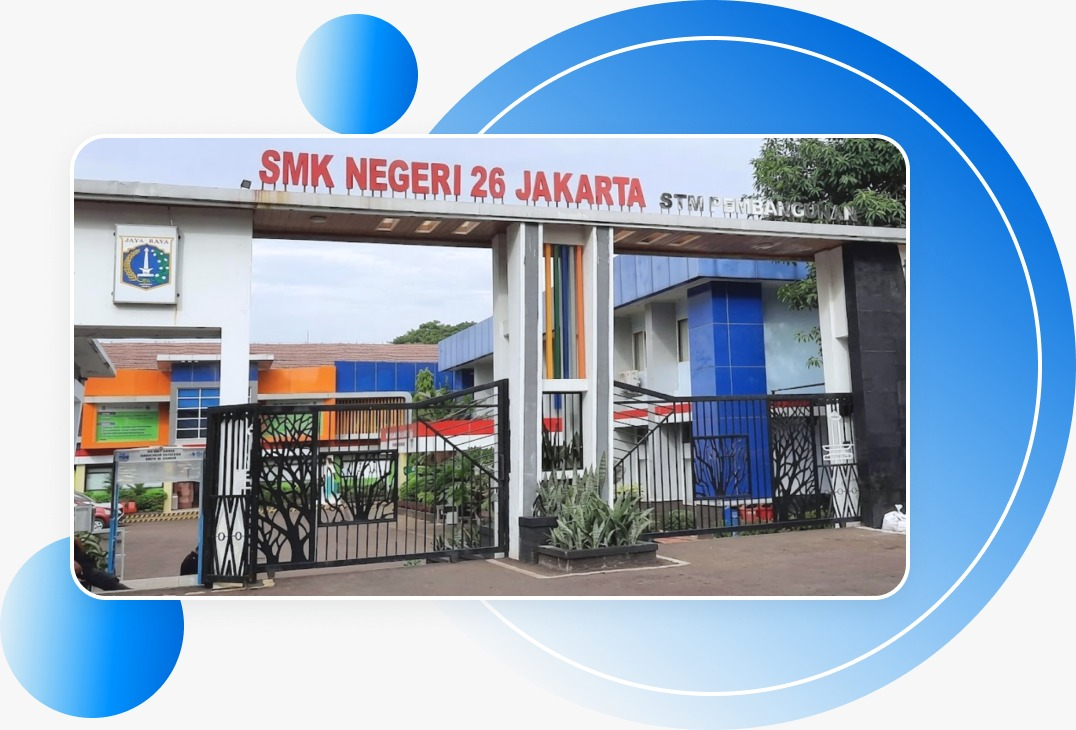
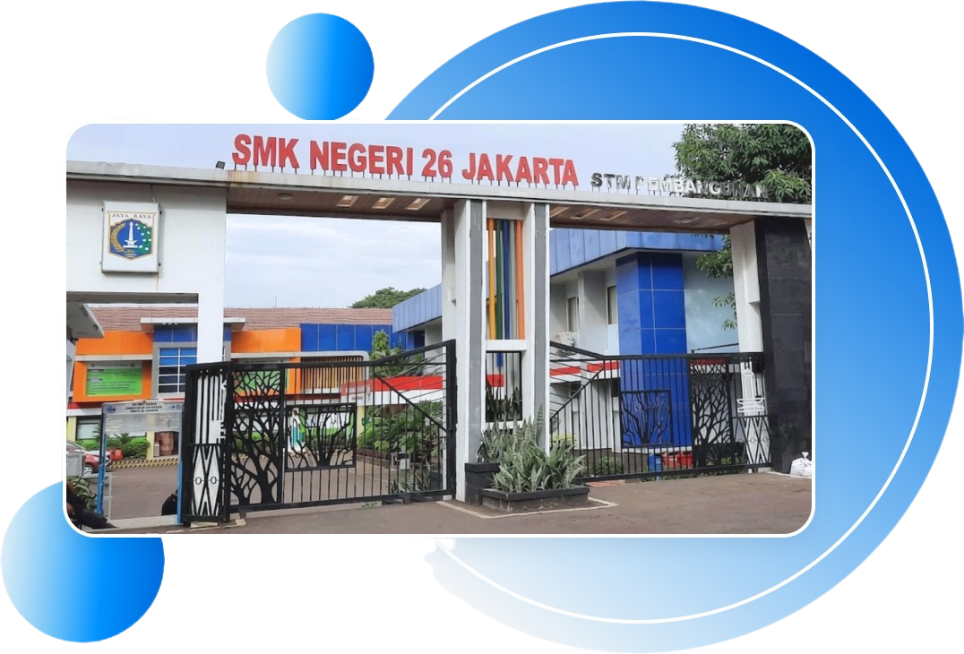
Implement partner industry page and refine profile layout

diff --git a/frontend/src/components/public/PartnerLogos.tsx b/frontend/src/components/public/PartnerLogos.tsx
@@ -1,55 +1,128 @@
-import { useEffect, useRef } from "react";
+type Partner = {
+  key: string;
+  name: string;
+  src: string;
+};
 
-const partners = [
-  { key: "partner-logo-09", name: "Partner logo 09", src: "/assets/figma/partners/partner-logo-09.png" },
-  { key: "partner-logo-07", name: "Partner logo 07", src: "/assets/figma/partners/partner-logo-07.jpeg" },
-  { key: "partner-logo-05", name: "Partner logo 05", src: "/assets/figma/partners/partner-logo-05.png" },
-  { key: "partner-logo-04", name: "Partner logo 04", src: "/assets/figma/partners/partner-logo-04.png" },
-  { key: "partner-logo-16", name: "Partner logo 16", src: "/assets/figma/partners/partner-logo-16.png" },
-  { key: "partner-logo-12", name: "Partner logo 12", src: "/assets/figma/partners/partner-logo-12.png" },
-  { key: "partner-logo-10", name: "Partner logo 10", src: "/assets/figma/partners/partner-logo-10.png" },
-  { key: "partner-pln", name: "PLN", src: "/assets/figma/partners/partner-pln.png" },
-  { key: "partner-panasonic", name: "Panasonic", src: "/assets/figma/partners/partner-panasonic.png" },
-  { key: "partner-wika", name: "WIKA", src: "/assets/figma/partners/partner-wika.png" },
-] as const;
+const partners: Partner[] = [
+  { key: "astra", name: "Astra", src: "/assets/figma/mitra-industri/astra.png" },
+  { key: "azko", name: "AZKO", src: "/assets/figma/mitra-industri/azko.png" },
+  { key: "komatsu", name: "Komatsu", src: "/assets/figma/mitra-industri/komatsu.png" },
+  { key: "microvision", name: "Microvision", src: "/assets/figma/mitra-industri/microvision.png" },
+  { key: "panasonic", name: "Panasonic", src: "/assets/figma/mitra-industri/panasonic.png" },
+  { key: "pln", name: "PLN", src: "/assets/figma/mitra-industri/pln.png" },
+  { key: "toyota", name: "Toyota", src: "/assets/figma/mitra-industri/toyota.png" },
+  { key: "wika", name: "WIKA", src: "/assets/figma/mitra-industri/wika.png" },
+];
 
-export function PartnerLogos() {
-  const trackRef = useRef<HTMLDivElement>(null);
-  useEffect(() => {
-    const track = trackRef.current;
-    if (!track) return;
-    // Replaces the previous @keyframes partner-marquee (10s linear infinite,
-    // translateX(0) -> translateX(-50%)). Two identical sets are rendered, so
-    // -50% is exactly one set width and the loop is seamless.
-    const animation = track.animate(
-      [{ transform: "translateX(0)" }, { transform: "translateX(-50%)" }],
-      { duration: 10000, iterations: Infinity, easing: "linear" },
-    );
-    return () => animation.cancel();
-  }, []);
-
-  const renderPartnerSet = (hidden = false) => (
-    <div className="flex shrink-0 gap-[23.551px] pr-[23.551px]" aria-hidden={hidden}>
-      {partners.map((partner) => (
-        <div className="grid h-[117.737px] w-[235.475px] shrink-0 place-items-center rounded-[24px] border-2 border-school-bg bg-white" data-partner-key={partner.key} key={`${hidden ? "duplicate-" : ""}${partner.key}`}>
-          <img className="max-h-[70px] max-w-[190px] object-contain" src={partner.src} alt={`${partner.name} logo`} draggable={false} />
-        </div>
-      ))}
+function PartnerCard({ partner }: { partner: Partner }) {
+  return (
+    <div className="grid h-[117.737px] w-[235.475px] shrink-0 place-items-center rounded-[24px] border-2 border-[#EAF5FA] bg-white p-5 shadow-[0_4px_16px_rgba(15,23,42,.08)]">
+      <img
+        className="max-h-[70px] max-w-[190px] object-contain"
+        src={partner.src}
+        alt={`${partner.name} logo`}
+        draggable={false}
+      />
     </div>
   );
+}
+
+function PartnerCards({ compact = false }: { compact?: boolean }) {
   return (
-    <section className="partners-section mt-[88px] h-[218px] overflow-hidden bg-[#F4F8FF]">
-      <div className="mx-auto w-[calc(100%-32px)] max-w-[1272px]">
-<h2 className="text-center text-4xl font-bold text-ink">
-           <span className="text-primary-dark">100+ Mitra Industri</span> yang Berkolaborasi Bersama
+    <div className={compact ? "flex gap-6 overflow-x-auto pb-2" : "grid grid-cols-2 gap-4 sm:grid-cols-3 lg:grid-cols-4"}>
+      {partners.map((partner) => <PartnerCard partner={partner} key={partner.key} />)}
+    </div>
+  );
+}
+
+const partnerDetails = [
+  ["AZKO", "azko"],
+  ["PLN", "pln"],
+  ["Toyota", "toyota"],
+  ["WIKA", "wika"],
+  ["Panasonic", "panasonic"],
+  ["Komatsu", "komatsu"],
+  ["Microvision", "microvision"],
+  ["Astra Otoparts", "astra"],
+] as const;
+
+function DetailPartnerCard({ name, keyName, index }: { name: string; keyName: string; index: number }) {
+  const partner = partners.find((item) => item.key === keyName);
+  if (!partner) return null;
+  return (
+    <article className="flex min-h-[300px] flex-col rounded-[24px] border-2 border-[#EAF5FA] bg-white p-6 shadow-[0_4px_16px_rgba(15,23,42,.08)]">
+      <div className="grid h-[92px] place-items-center">
+        <img className="max-h-[70px] max-w-[190px] object-contain" src={partner.src} alt={`${name} logo`} draggable={false} />
+      </div>
+      <h3 className="mt-5 text-lg font-bold text-ink">{String(index + 1).padStart(2, "0")} — {name}</h3>
+      <div className="mt-auto pt-6 text-xs font-semibold text-primary">Logo mitra industri</div>
+    </article>
+  );
+}
+
+export function PartnerLogos() {
+  return (
+    <section
+      id="partners"
+      className="mt-[88px] overflow-hidden bg-[#F4F8FF] py-8"
+      aria-labelledby="homepage-partners-title"
+    >
+      <div className="mx-auto w-full max-w-[1272px] px-4 sm:px-6 lg:px-0">
+        <h2 id="homepage-partners-title" className="text-center text-3xl font-bold leading-[54px] text-ink sm:text-4xl">
+          <span className="text-primary-dark">100+ Mitra Industri</span> yang Berkolaborasi Bersama
         </h2>
-        <div className="mt-[42px] h-[140px] w-full overflow-hidden">
-          <div ref={trackRef} className="flex w-max">
-            {renderPartnerSet()}
-            {renderPartnerSet(true)}
-          </div>
+        <div className="mt-8">
+          <PartnerCards compact />
         </div>
       </div>
     </section>
+  );
+}
+
+export function PartnerIndustryPage() {
+  return (
+    <main className="min-h-screen overflow-hidden bg-white pb-24 text-ink">
+      <section className="relative isolate overflow-visible bg-[#EAF5FA]" aria-labelledby="partners-page-title">
+        <img className="absolute inset-0 -z-10 size-full object-cover object-center" src="/assets/figma/mitra-industri/hero.png" alt="" aria-hidden="true" />
+        <div className="absolute inset-0 -z-[5] bg-[linear-gradient(180deg,rgba(234,245,250,.9)_0%,rgba(234,245,250,.12)_42%,rgba(0,108,220,.16)_100%)]" aria-hidden="true" />
+        <div className="mx-auto flex min-h-[700px] w-full max-w-[1272px] flex-col items-center px-4 pb-0 pt-[150px] text-center sm:px-6 lg:min-h-[720px] lg:px-0">
+          <span className="inline-flex rounded-full bg-white/90 px-3 py-1.5 text-xs font-semibold text-primary shadow-[0_4px_16px_rgba(15,23,42,.08)]">MITRA INDUSTRI</span>
+          <h1 id="partners-page-title" className="mt-4 max-w-[850px] text-4xl font-extrabold leading-[1.15] text-white drop-shadow-[0_3px_6px_rgba(15,23,42,.2)] sm:text-5xl lg:text-[52px]">
+            Membangun Koneksi, <span className="text-primary">Membuka Peluang</span>
+          </h1>
+          <p className="mt-4 max-w-[760px] text-sm leading-6 text-white drop-shadow-[0_2px_4px_rgba(15,23,42,.25)] sm:text-base sm:leading-7">
+            Mengenal berbagai mitra industri yang berkolaborasi bersama SMKN 26 Jakarta dalam mendukung pembelajaran dan kesiapan siswa menuju dunia kerja.
+          </p>
+          <a className="mt-5 rounded-full border border-white/50 bg-primary px-6 py-2.5 text-sm font-semibold text-white shadow-[0_4px_16px_rgba(15,23,42,.12)] transition hover:bg-primary-dark focus-visible:outline-2 focus-visible:outline-white" href="#partners-list-title">Jelajahi Mitra <span aria-hidden="true">→</span></a>
+          <div className="absolute bottom-[-45px] left-1/2 z-20 grid w-[min(1080px,100%)] -translate-x-1/2 grid-cols-2 overflow-hidden rounded-[12px] bg-gradient-to-r from-primary-dark via-primary to-soft-blue text-white shadow-[0_8px_24px_rgba(15,23,42,.16)] sm:grid-cols-4 max-sm:bottom-[-62px]">
+            {[["50+", "Mitra Industri"], ["6", "Kompetensi Keahlian"], ["6", "Bidang Kolaborasi"], ["24", "Program & Kegiatan"]].map(([value, label]) => (
+              <div className="border-b border-r border-dashed border-white/70 px-3 py-4 last:border-r-0 sm:py-3" key={label}>
+                <strong className="block text-2xl font-bold sm:text-3xl">{value}</strong>
+                <span className="text-[11px] sm:text-xs">{label}</span>
+              </div>
+            ))}
+          </div>
+        </div>
+      </section>
+
+      <div className="mx-auto w-full max-w-[1272px] px-4 sm:px-6 lg:px-0">
+        <section className="grid items-center gap-10 pt-[125px] pb-16 sm:pt-[145px] sm:pb-20 lg:grid-cols-[minmax(0,1.05fr)_minmax(0,.95fr)]" aria-labelledby="partners-intro-title">
+          <img className="order-2 h-auto max-h-[360px] w-full object-contain lg:order-1" src="/assets/figma/mitra-industri/sectionbawahhero.png" alt="Siswa SMKN 26 melakukan praktik teknis" />
+          <div className="order-1 lg:order-2">
+            <h2 id="partners-intro-title" className="text-3xl font-bold leading-[1.25] sm:text-4xl sm:leading-[1.35]">Mitra Industri<br /><span className="text-primary">SMK Negeri 26 Jakarta</span></h2>
+            <p className="mt-5 text-base leading-7 text-muted sm:text-lg sm:leading-8">Membangun kolaborasi antara SMKN 26 Jakarta dan dunia industri untuk menghadirkan pembelajaran yang relevan, praktik nyata, serta kesiapan kerja bagi siswa.</p>
+            <a className="mt-5 inline-flex rounded-full bg-primary px-5 py-2.5 text-xs font-semibold text-white hover:bg-primary-dark focus-visible:outline-2 focus-visible:outline-primary" href="#partners-list-title">Jelajahi Mitra <span className="ml-2" aria-hidden="true">→</span></a>
+          </div>
+        </section>
+
+        <section className="rounded-t-[32px] bg-[#F4F8FF] px-4 py-14 sm:px-8 sm:py-16" aria-labelledby="partners-list-title">
+          <h2 id="partners-list-title" className="mx-auto max-w-[820px] text-center text-3xl font-bold leading-[1.3] sm:text-4xl sm:leading-[54px]"><span className="text-primary-dark">100+ Mitra Industri</span> yang Berkolaborasi Bersama</h2>
+          <div className="mt-10 grid grid-cols-1 gap-5 sm:grid-cols-2 lg:grid-cols-4">
+            {partnerDetails.map(([name, keyName], index) => <DetailPartnerCard key={keyName} name={name} keyName={keyName} index={index} />)}
+          </div>
+        </section>
+      </div>
+    </main>
   );
 }

diff --git a/frontend/src/pages/ProfilePage.tsx b/frontend/src/pages/ProfilePage.tsx
@@ -35,8 +35,7 @@ function ProfilePage() {
       <PublicNavbar />
       <main>
         <section className="relative isolate flex h-[626px] items-start overflow-visible bg-[#F4F8FF] px-6 pt-[146px] text-ink max-md:h-[680px] max-md:overflow-hidden max-md:pt-[128px] md:px-16">
-          <img className="absolute left-0 top-[30px] z-0 h-[757px] w-full object-cover object-top max-md:top-[390px] max-md:h-auto max-md:w-full max-md:object-contain" src={figmaAssets.profile.heroBackground} alt="Gedung SMK Negeri 26 Jakarta" />
-          <div className="pointer-events-none absolute inset-x-0 top-10 z-[1] h-auto bg-gradient-to-b from-[#F4F8FF] via-[#F4F8FF] to-[#F4F8FF]/90" aria-hidden="true" />
+          <img className="absolute left-0 top-0 z-0 h-[757px] w-full object-cover object-top max-md:top-[250px] max-md:h-auto max-md:w-full max-md:object-contain" src="/assets/figma/profile/profile-hero-bg.png" alt="Gedung SMK Negeri 26 Jakarta" />
           <div className="relative z-10 mx-auto w-full max-w-[1025px] text-center">
             <ProfileBadge>PROFIL SMK NEGERI 26 JAKARTA</ProfileBadge>
             <h1 className="mt-6 text-4xl font-bold leading-[54px] tracking-[-.02em] md:text-[48px] md:leading-[72px]">
@@ -48,8 +47,7 @@ function ProfilePage() {
           </div>
         </section>
 
-        <section className="relative z-20 mx-auto -mt-[45px] h-[160px] w-[min(1200px,100%-32px)] translate-y-[100px] max-md:mt-4 max-md:h-auto max-md:translate-y-0">
-          <h2 className="pointer-events-none absolute -top-12 left-0 right-0 z-20 text-center text-xl font-bold text-primary-dark md:hidden">Overview Statistic</h2>
+        <section className="relative z-20 mx-auto -mt-[45px] h-[205px] w-[min(1200px,100%-32px)] translate-y-[70px] max-md:mt-4 max-md:h-auto max-md:translate-y-0">
           <div className="absolute bottom-0 left-0 right-0 grid grid-cols-2 overflow-hidden rounded-[12px] bg-gradient-to-r from-primary-dark via-primary to-soft-blue text-white shadow-[0_8px_24px_rgba(15,23,42,.16)] sm:grid-cols-3 md:grid-cols-5 max-md:relative">
             {[
               ["6", "Jurusan"],
@@ -66,14 +64,14 @@ function ProfilePage() {
           </div>
         </section>
 
-        <section className="mx-auto mt-[45px] grid min-h-[549px] min-w-0 w-full bg-white px-6 py-16 md:grid-cols-[minmax(0,538px)_minmax(0,1fr)] md:items-center md:gap-[68px] md:px-[84px] md:py-[40px]">
-          <img className="mx-auto h-auto max-h-[365px] w-full max-w-[538px] object-contain" src={figmaAssets.profile.overviewComposite} alt="Lingkungan SMK Negeri 26 Jakarta" />
+        <section className="mx-auto mt-[45px] grid min-h-[549px] min-w-0 w-full max-w-[1272px] bg-white px-6 py-16 md:grid-cols-[minmax(0,538px)_minmax(0,1fr)] md:items-center md:gap-[68px] md:px-0 md:py-[40px]">
+          <img className="mx-auto h-auto max-h-[365px] w-full max-w-[538px] mix-blend-multiply object-contain" src={figmaAssets.profile.overviewComposite} alt="Lingkungan SMK Negeri 26 Jakarta" />
           <div className="min-w-0 md:pt-[30px]">
           
-            <h2 className="mt-5 max-w-[494px] text-[36px] font-bold leading-[54px] md:text-[44px] md:leading-[53.25px]">
+            <h2 className="mt-5 max-w-none text-[clamp(24px,3.05vw,44px)] font-bold leading-[1.2] max-md:text-[32px] md:leading-[53.25px]">
               Mengenal
               <br />
-              <span className="bg-gradient-to-r from-primary-dark via-primary to-soft-blue bg-clip-text text-transparent">SMK Negeri 26 Jakarta</span>
+              <span className="whitespace-nowrap bg-gradient-to-r from-primary-dark via-primary to-soft-blue bg-clip-text text-transparent">SMK Negeri 26 Jakarta</span>
             </h2>
             <p className="mt-5 max-w-[652px] text-[20px] leading-[30px] text-muted">
               SMK Negeri 26 Jakarta hadir sebagai satuan pendidikan vokasi yang mengembangkan kompetensi siswa melalui pembelajaran yang relevan dengan kebutuhan dunia usaha dan dunia industri. Dengan mengintegrasikan pembelajaran, teknologi, pengalaman praktik, dan kemitraan industri, SMK Negeri 26 Jakarta terus mendorong siswa untuk berkembang dan menghasilkan karya nyata.

diff --git a/frontend/src/App.tsx b/frontend/src/App.tsx
@@ -4,7 +4,7 @@ import { HeroSection } from "./components/public/HeroSection";
 import { ShortcutMenu } from "./components/public/ShortcutMenu";
 import { SchoolOverview } from "./components/public/SchoolOverview";
 import { SchoolAdvantages } from "./components/public/SchoolAdvantages";
-import { PartnerLogos } from "./components/public/PartnerLogos";
+import { PartnerIndustryPage, PartnerLogos } from "./components/public/PartnerLogos";
 import { TourPage } from "./pages/TourPage";
 import { LapanganTourPage } from "./pages/LapanganTourPage";
 import { AuthProvider } from "./features/auth/AuthProvider";
@@ -198,7 +198,7 @@ export function LegacyApp() {
     "/partners": [
       "partners",
       "Mitra Industri",
-      "Mitra industri akan ditampilkan setelah data dan hak publikasi dikonfirmasi.",
+      "Mitra industri SMKN 26 Jakarta.",
     ],
     "/blud": [
       "blud",
@@ -263,7 +263,8 @@ export function App() {
   if (path === "/guru-kejuruan") return <PublicExperience><GuruKejuruanPage /></PublicExperience>;
   if (path === "/tenaga-kependidikan") return <PublicExperience><TenagaKependidikanPage /></PublicExperience>;
   if (path === "/tim-pendukung-sekolah") return <PublicExperience><TimPendukungSekolahPage /></PublicExperience>;
-  if (path === "/" || path === "/tour" || path === "/tour/lapangan" || ["/profile", "/organization", "/partners", "/blud", "/programs", "/achievements", "/news", "/information", "/contact"].includes(path)) return <PublicExperience><LegacyApp /></PublicExperience>;
+  if (path === "/partners") return <PublicExperience><div className="min-h-screen bg-white"><PublicNavbar /><PartnerIndustryPage /><PublicFooter /></div></PublicExperience>;
+  if (path === "/" || path === "/tour" || path === "/tour/lapangan" || ["/profile", "/organization", "/blud", "/programs", "/achievements", "/news", "/information", "/contact"].includes(path)) return <PublicExperience><LegacyApp /></PublicExperience>;
   if (!["/login", "/dashboard", "/dashboard/learning", "/dashboard/grades", "/admin/knowledge"].includes(path)) return <LegacyApp />;
   return <AuthProvider>
     {path === "/login" && <LoginPage />}

diff --git a/frontend/src/components/public/PublicFooter.tsx b/frontend/src/components/public/PublicFooter.tsx
@@ -20,6 +20,7 @@ function linkHref(title: string, link: string) {
   if (title === "Tentang Kami") {
     if (link === "Profil Sekolah") return "/profile";
     if (link === "School Tour") return "/tour";
+    if (link === "Mitra Industri") return "/partners";
     return "/majors";
   }
   return "/information";
